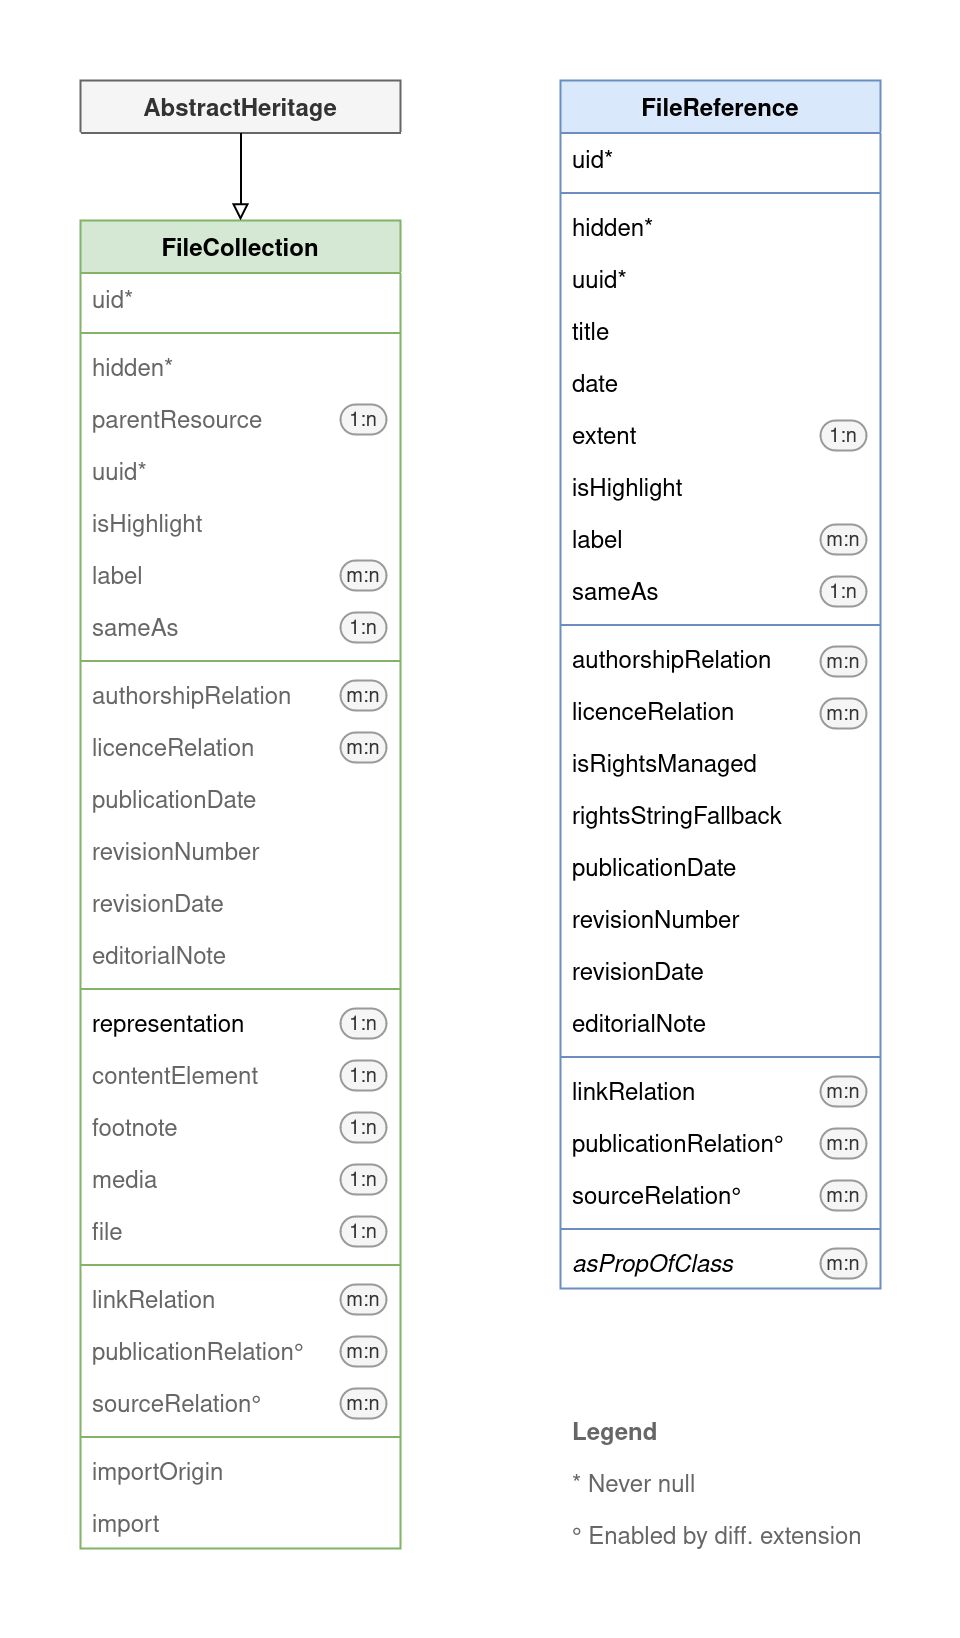
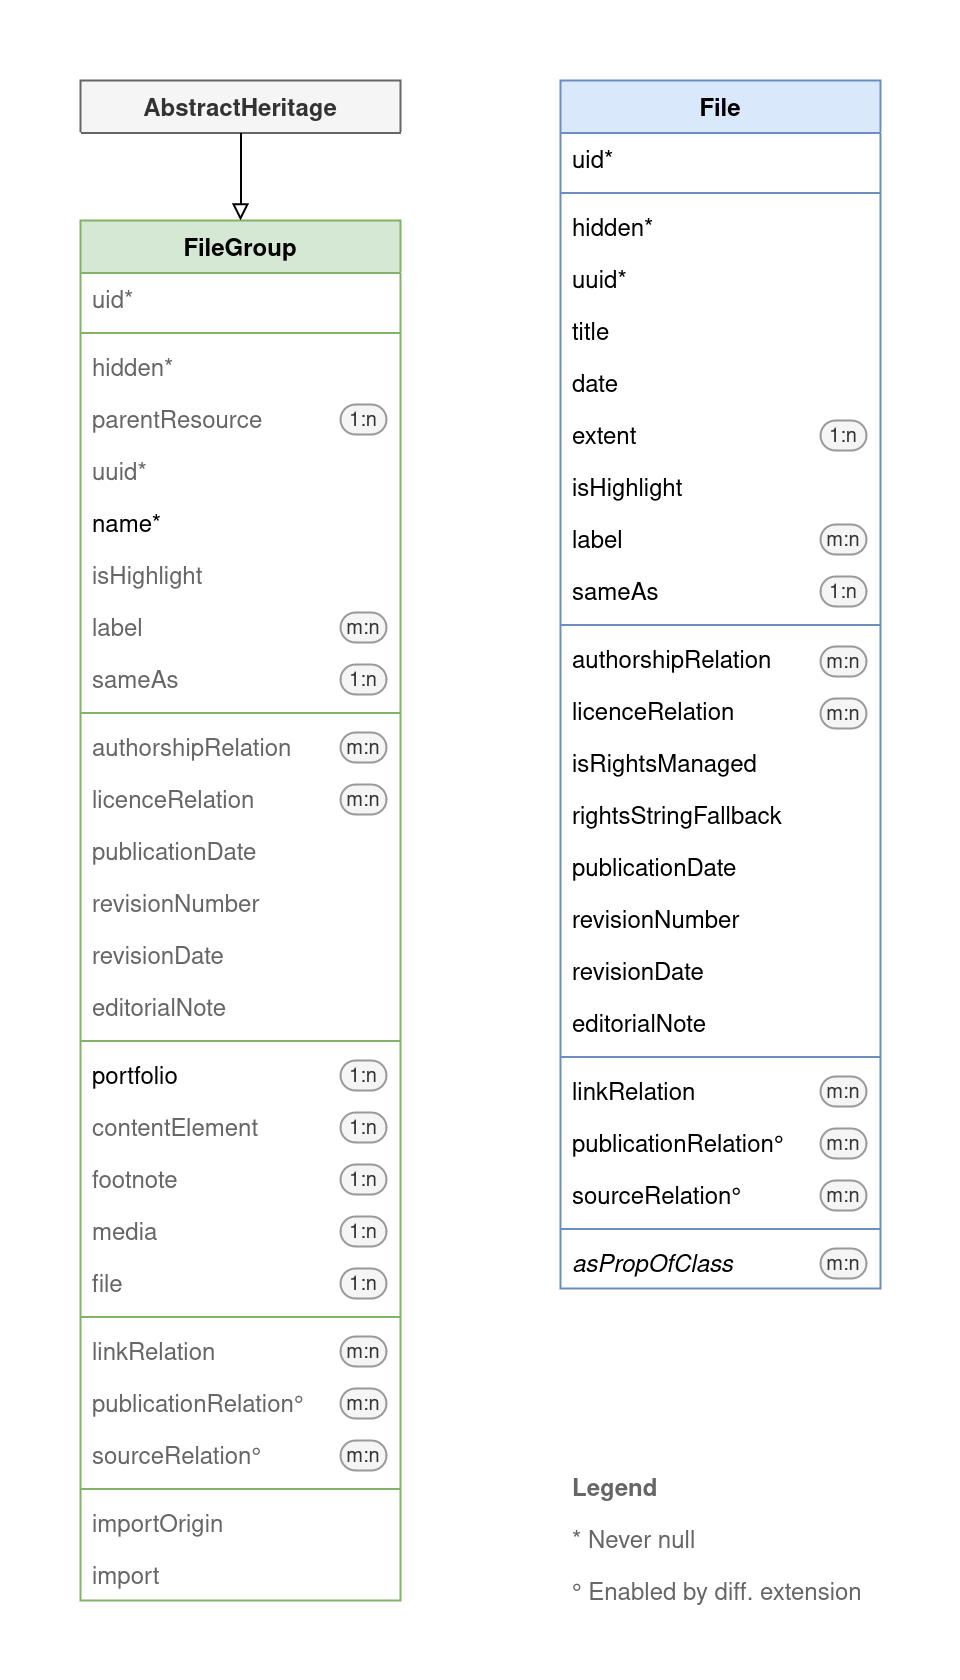
Rename FileCollection to FileGroup

diff --git a/Classes/Controller/FileGroupController.php b/Classes/Controller/FileGroupController.php
@@ -1,0 +1,41 @@
+<?php
+defined('TYPO3') or die();
+declare(strict_types=1);
+
+# This file is part of the extension CHF Media for TYPO3.
+#
+# For the full copyright and license information, please read the
+# LICENSE.txt file that was distributed with this source code.
+
+
+namespace Digicademy\CHFMedia\Controller;
+
+use Psr\Http\Message\ResponseInterface;
+use Digicademy\CHFMedia\Domain\Model\FileGroup;
+use Digicademy\CHFMedia\Domain\Repository\FileGroupRepository;
+use TYPO3\CMS\Extbase\Mvc\Controller\ActionController;
+
+/**
+ * Controller for FileGroup
+ */
+class FileGroupController extends ActionController
+{
+    private FileGroupRepository $fileGroupRepository;
+
+    public function injectFileGroupRepository(FileGroupRepository $fileGroupRepository): void
+    {
+        $this->fileGroupRepository = $fileGroupRepository;
+    }
+
+    public function indexAction(): ResponseInterface
+    {
+        $this->view->assign('fileGroups', $this->fileGroupRepository->findAll());
+        return $this->htmlResponse();
+    }
+
+    public function showAction(FileGroup $fileGroup): ResponseInterface
+    {
+        $this->view->assign('fileGroup', $fileGroup);
+        return $this->htmlResponse();
+    }
+}

diff --git a/Classes/Domain/Repository/FileGroupRepository.php b/Classes/Domain/Repository/FileGroupRepository.php
@@ -10,16 +10,16 @@ declare(strict_types=1);
 
 namespace Digicademy\CHFMedia\Domain\Repository;
 
-use Digicademy\CHFMedia\Domain\Model\FileCollection;
+use Digicademy\CHFMedia\Domain\Model\FileGroup;
 use TYPO3\CMS\Extbase\Persistence\QueryInterface;
 use TYPO3\CMS\Extbase\Persistence\Repository;
 
 /**
- * Repository for FileCollection
+ * Repository for FileGroup
  * 
- * @extends Repository<FileCollection>
+ * @extends Repository<FileGroup>
  */
-class FileCollectionRepository extends Repository
+class FileGroupRepository extends Repository
 {
     protected $defaultOrderings = [
         'sorting'          => QueryInterface::ORDER_ASCENDING,

diff --git a/Documentation/DataModel/Index.rst b/Documentation/DataModel/Index.rst
@@ -11,7 +11,7 @@ table for files. The central classes are ``File`` or ``FileReferences``. The
 added properties allow you to add, for example, licence information or links
 to objects and volumes. Files may also be annotated via ``LabelTag`` objects.
 
-In addition, ``FileCollection`` objects may help you structure a disparate set
+In addition, ``FileGroup`` objects may help you structure a disparate set
 of files and build a user-accessible page around it. This may be useful for
 sets of files that do not represent a class present in another data model of
 the CHF but that still need to be collected in a form of online exhibition.

diff --git a/Documentation/InstallAndConfig/Index.rst b/Documentation/InstallAndConfig/Index.rst
@@ -20,5 +20,5 @@ Install and config
 
 3.  Optionally set up a data folder
 
-    In a blank folder in your page tree, add a ``FileCollection``. Further
+    In a blank folder in your page tree, add a ``FileGroup``. Further
     data, such as agents, needs to be located in the same data folder.
